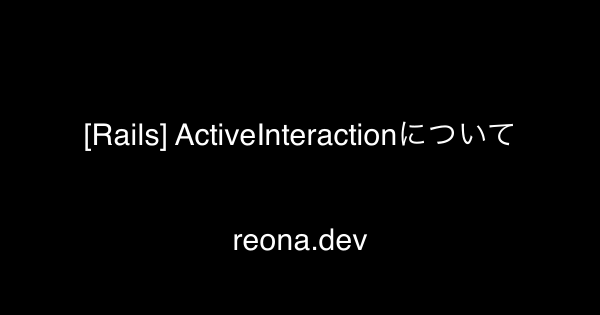
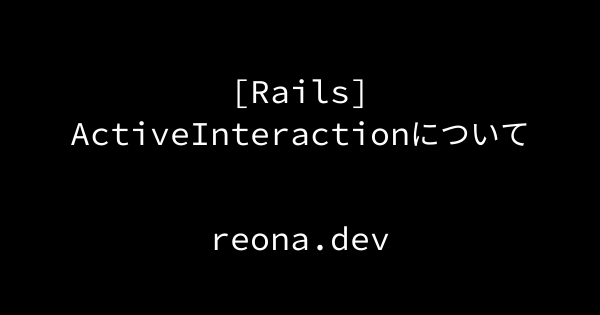
replace og image

Changed region(s): [[0.12, 0.3714, 0.87, 0.4857], [0.39, 0.2286, 0.63, 0.3429], [0.33, 0.7143, 0.66, 0.8]]

diff --git a/scripts/generate-ogp.js b/scripts/generate-ogp.js
@@ -1,4 +1,4 @@
-const { createCanvas } = require("canvas");
+const { createCanvas, registerFont } = require("canvas");
 const fs = require("fs-extra");
 const path = require("path");
 const extractMetadata = require("extract-mdx-metadata");
@@ -65,7 +65,7 @@ function renderText(ctx, rows) {
     const rowText = rows[i].join(" ");
     const m = ctx.measureText(rowText);
 
-    const w = (W - m.width) / 3;
+    const w = (W - m.width) / 2;
     const h = 40 + 210 / 2 - (LINE_HEIGHT + 12) * (rowCount - i - 1);
 
     ctx.fillText(rowText, w, h);
